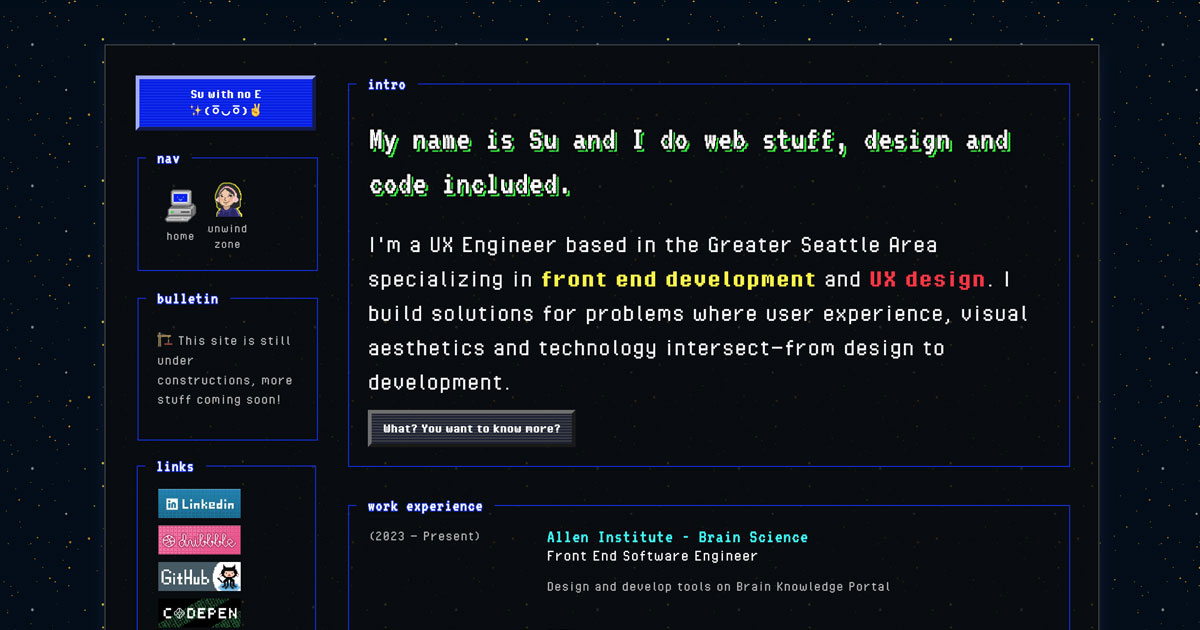
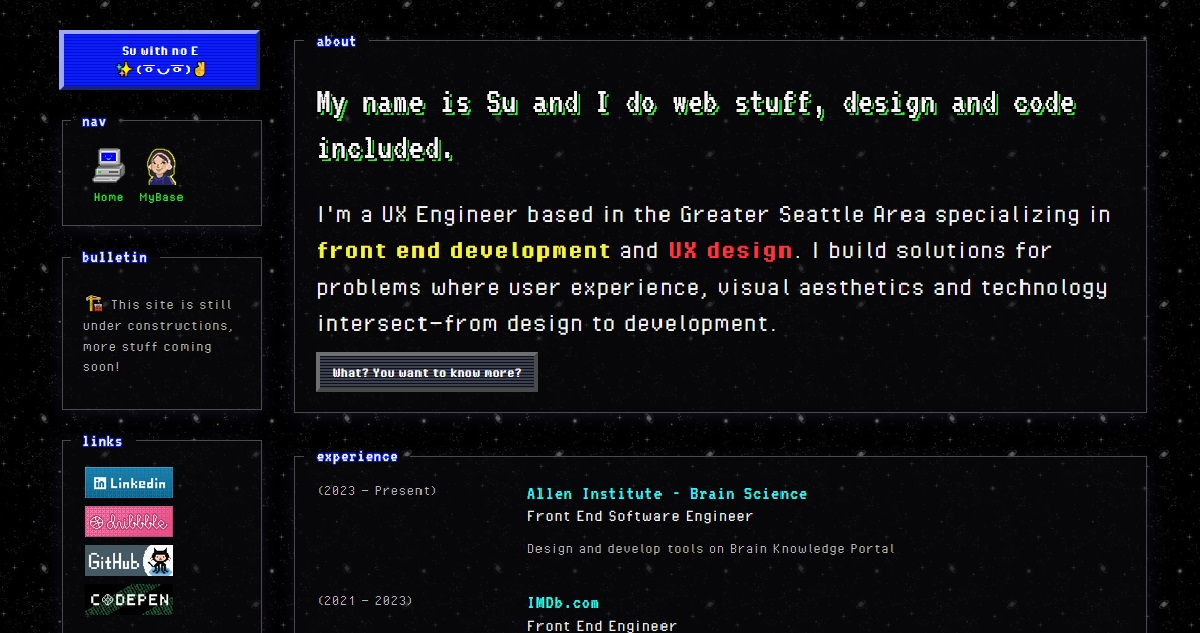
layout update

diff --git a/src/components/personal/personal.tsx b/src/components/personal/personal.tsx
@@ -94,12 +94,6 @@ export class Personal {
       </content-box>
     );
 
-    const boxMapleStory = (
-      <content-box gutter titleText="maplestory">
-        <ms-char-card />
-      </content-box>
-    );
-
     const boxRandomImage = (
       <content-box
         gutter
@@ -127,13 +121,12 @@ export class Personal {
             [
               boxMe,
               boxLastPlayedSong,
-              boxMapleStory,
+              boxLastPlayedGames,
               boxRandomImage,
             ],
             [
               boxNote,
               boxBooks,
-              boxLastPlayedGames,
             ],
           ];
         default:
@@ -143,7 +136,6 @@ export class Personal {
               boxNote,
               boxLastPlayedSong,
               boxBooks,
-              boxMapleStory,
               boxRandomImage,
               boxLastPlayedGames,
             ]

diff --git a/src/common/api.ts b/src/common/api.ts
@@ -17,10 +17,10 @@ const API_CONFIG: Array<{ endpoint: string; state: keyof AppState }> = [
     endpoint: 'metadata',
     state: 'metadata'
   },
-  {
-    endpoint: 'maplestory',
-    state: 'msData'
-  },
+  // {
+  //   endpoint: 'maplestory',
+  //   state: 'msData'
+  // },
   {
     endpoint: 'books',
     state: 'books'
@@ -40,12 +40,12 @@ export const fetchApiData = async (endpoints?: string[]) => {
     fetch(`/api/${config.endpoint}`)
       .then((res) => res.json())
       .then((data) => {
-        setLoadState(config.endpoint);
         set(config.state, data);
+        setLoadState(config.endpoint);
       })
       .catch((err) => {
-        setLoadState(config.endpoint);
         console.log('fetchApiData Error: ', err);
+        setLoadState(config.endpoint);
       })
   });
 }

diff --git a/src/global/app.css b/src/global/app.css
@@ -28,7 +28,7 @@
   --color-text-sub: #B7B7B7;
   --color-text-button: #FFFFFF;
   --color-background: #0c0c0e;
-  --color-background-main: rgba(12, 12, 14, 0.8);
+  --color-background-main: rgba(12, 12, 14, 0.6);
   --color-border: #4A4A4A;
   --space-xxs: 4px;
   --space-xs: 8px;
@@ -46,7 +46,7 @@
 body {
   letter-spacing: 0.06rem;
   background: var(--color-background-main);
-  background-blend-mode: overlay;
+  background-blend-mode: multiply;
   background-image: url("/assets/bg_tile.jpg");
   background-repeat: repeat;
   background-size: 150px 150px;

diff --git a/src/components/personal/personal.css b/src/components/personal/personal.css
@@ -10,7 +10,7 @@
 
 .game-data--wrapper {
   display: grid;
-  grid-template-columns: repeat(3, 1fr);
+  grid-template-columns: repeat(2, 1fr);
   column-gap: var(--space-m);
   row-gap: var(--space-m);
 }
@@ -30,12 +30,6 @@
 }
 
 @media only screen and (max-width: 1200px) {
-  .game-data--wrapper {
-    grid-template-columns: repeat(2, 1fr);
-  }
-}
-
-@media only screen and (max-width: 520px) {
   .game-data--wrapper {
     grid-template-columns: 1fr;
   }

diff --git a/netlify/functions/games.ts b/netlify/functions/games.ts
@@ -11,7 +11,7 @@ exports.handler = async function () {
         const games_res = await fetch(GAMES_API_URL);
         const games_res_data = await games_res.json();
 
-        const lastPlayedGames = games_res_data.games.slice(0, 6);
+        const lastPlayedGames = games_res_data.games.slice(0, 4);
         const data = lastPlayedGames?.map((game): LastPlayedGame => ({
             name: game.meta.title,
             imgUrl: game.resource_standard,

diff --git a/src/components/content-box/content-box.css b/src/components/content-box/content-box.css
@@ -4,10 +4,12 @@
   width: 100%;
   border-width: 1px;
   border-style: solid;
-  border-color: var(--color-blue);
+  border-color: var(--color-border);
   display: inline-block;
   padding-inline: var(--space-m);
   padding-bottom: var(--space-m);
+  box-shadow: rgba(150, 150, 255, 0.1) 0px 4px 16px;
+  background-color: var(--color-background-main);
 }
 
 .content-box legend {

diff --git a/netlify/functions/music.ts b/netlify/functions/music.ts
@@ -12,7 +12,7 @@ const params = new URLSearchParams({
 });
 
 const LAST_FM_API_URL = `${BASE_URL}?${params.toString()}`;
-
+console.log(LAST_FM_API_URL)
 const getLastPlayedTimeText = (uts: number) => {
   const now = Math.floor(Date.now() / 1000);
   const diffInSeconds = now - uts;

diff --git a/src/components/app-root/app-root.css b/src/components/app-root/app-root.css
@@ -4,9 +4,6 @@ main {
   margin: var(--space-xl) auto;
   display: block;
   box-sizing: border-box;
-  background-color: var(--color-background-main);
-  border: 1px solid var(--color-border);
-  box-shadow: rgba(150, 150, 255, 0.1) 0px 4px 16px;
 }
 
 .loading-screen {

diff --git a/src/components/app-layout/app-layout.css b/src/components/app-layout/app-layout.css
@@ -2,7 +2,6 @@ app-layout {
   display: grid;
   grid-template-columns: 1fr 5fr;
   column-gap: var(--space-l);
-  padding: var(--space-l);
 }
 
 .app-layout--static-content,
